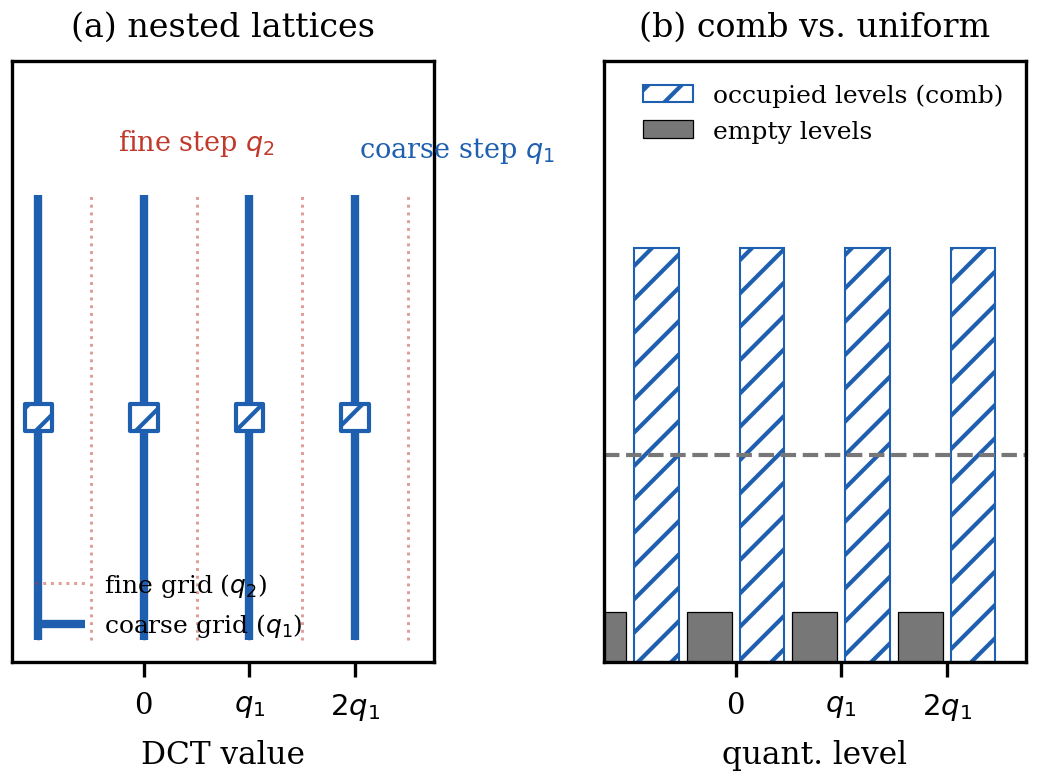
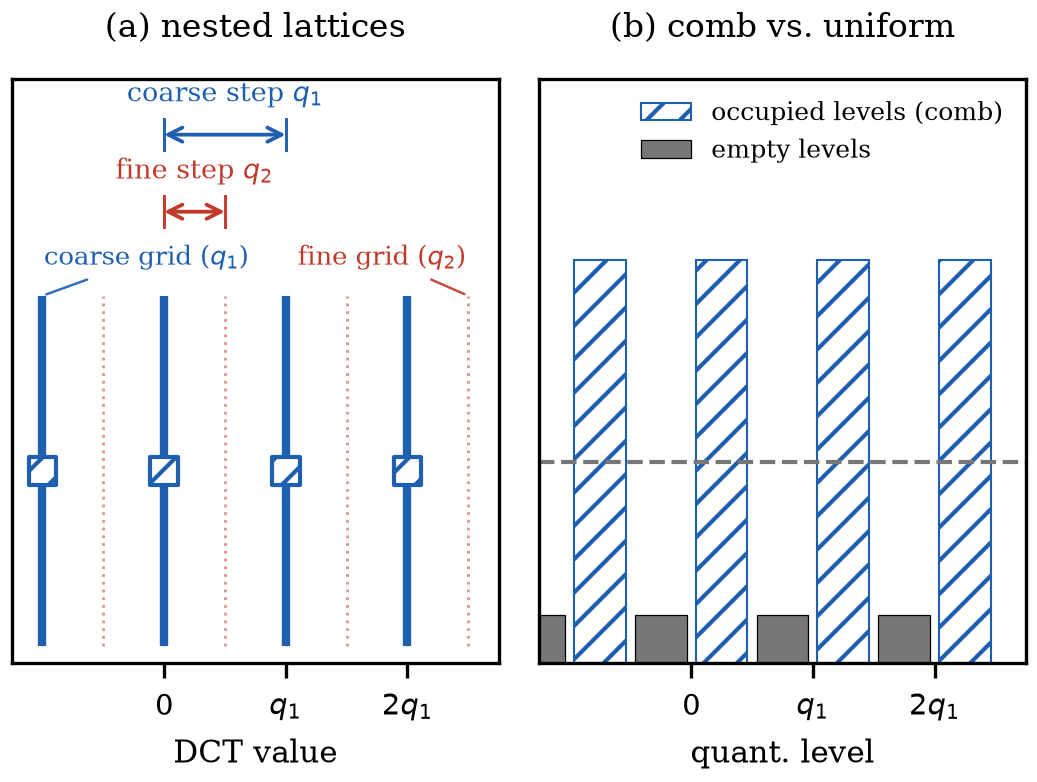
Regenerate comb-geometry PNG from the approved generator; create figs/ on a clean checkout

diff --git a/part1_theory/figures/detect_vs_attribute/generator.py b/part1_theory/figures/detect_vs_attribute/generator.py
@@ -1,3 +1,5 @@
+import os
+
 import matplotlib
 matplotlib.use('Agg')
 import matplotlib.pyplot as plt
@@ -65,5 +67,6 @@ ax2.text(0.03, 0.66, r'$N^\star=\Omega(\varepsilon^{-2})$  samples required',
          bbox=dict(boxstyle='round', fc='#fdeeee', ec='#e0a0a0', lw=0.6))
 
 plt.tight_layout()
+os.makedirs('figs', exist_ok=True)
 plt.savefig('figs/detect_vs_attribute.png', bbox_inches='tight', pad_inches=0.05)
 print('saved figs/detect_vs_attribute.png')

diff --git a/part1_theory/figures/comb_geometry/generator.py b/part1_theory/figures/comb_geometry/generator.py
@@ -1,3 +1,5 @@
+import os
+
 import matplotlib
 matplotlib.use('Agg')
 import matplotlib.pyplot as plt
@@ -142,5 +144,6 @@ plt.tight_layout(pad=0.3)
 # axes region down restores breathing room above each panel and re-centres the
 # content vertically.
 fig.subplots_adjust(top=0.90)
+os.makedirs('figs', exist_ok=True)
 plt.savefig('figs/comb_geometry.png', bbox_inches='tight', pad_inches=0.04)
 print('saved figs/comb_geometry.png')
